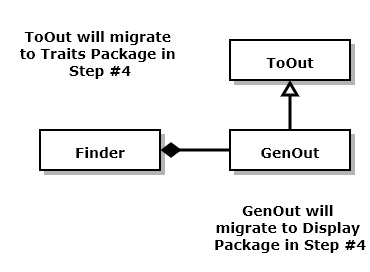
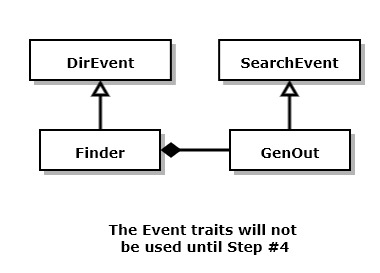
changed details in spec and demo code

diff --git a/Resources/BuildOn/Step1.html b/Resources/BuildOn/Step1.html
@@ -84,7 +84,7 @@
             width="300" class="photoSizerBlock left"
             style="background-color: #fefefa;"  
           >
-            <span style="font-family:'Comic Sans MS';">Figure 2. TextSearch Types</span>
+            <span style="font-family:'Comic Sans MS';">Figure 2. Step #1 Types</span>
           </photosizer-block>
         </div>
        <t-b>
@@ -144,11 +144,14 @@
           In this step we will create the TextSearch package.  It contains a <c-s>Finder</c-s> type that:
           <ol>
             <li>
-              Accepts a directory name which it interprets as the currently analyzed directory, and passes
-              on to an instance of a <c-s>GenOut</c-s> type, implemented by the Display package.
+              Accepts a search string in method Finder::set_txt.
             </li>
             <li>
-              Accepts a file name and search text in a find method.
+              Accepts a directory name in DirEvent::do_dir which it stores and passes on to an instance
+              of the <c-s>GenOut</c-s> type, which will move to the Display package in Step #4.
+            </li>
+            <li>
+              Accepts a file name in DirEvent::do_file.
             </li>
             <li>
               Attempts to open the file.
@@ -157,30 +160,31 @@
               If successful, searches the file for the specified text.
             </li>
             <li>
-              Sends a tuple of file name, boolean found value, and the search text to the display package&apos;s
+              Sends a tuple of file name, boolean found value, and the search text to the
               <c-s>GenOut</c-s> type.
               The boolean value is true if specified text was found in the file, otherwise false.
             </li>
           </ol>
         </t-b>
         <t-b>
-          TextSearch package defines a struct <c-s>Finder</c-s> that provides the methods:
+          TextSearch package defines struct <c-s>Finder</c-s> that provides the methods:
           <indent-block>
-            <c-s>fn set_dir(&mut self, dirnm: &str)</c-s><br />
-            <c-s>fn find(&mut self, flnm: &str, stxt: &str)</c-s>
+            <c-s>fn do_dir(&mut self, dir: &str)</c-s><br />
+            <c-s>fn do_file(&mut self, file: &str)</c-s><br />
+            <c-s>fn set_txt(&mut self, srctxt: &str)</c-s>
           </indent-block>
-          Method <c-s>find</c-s> sends its results directly to <c-s>GenOut</c-s>, below, rather than 
+          Method <c-s>do_file</c-s> sends its results directly to <c-s>GenOut</c-s>, below, rather than 
           returning them to DirNav.
         </t-b>
         <t-b>
-          It defines struct <c-s>GenOut</c-s> to provide methods:
+          It defines, in this Step, struct <c-s>GenOut</c-s> to provide methods:
           <indent-block>
             <c-s>fn set_dir(&mut self, dir: &str)</c-s><br />
             <c-s>/* rslt args, below, are: filename, found, and search_text */</c-s><br />
             <c-s>fn set_file(&mut self, rslt:(&str, bool, &str))</c-s>
           </indent-block>
-          <c-s>GenOut</c-s> will migrate to the Display package in
-          Step #4.
+          In this Step, <c-s>GenOut</c-s> is a test mock, supporting <c-s>Finder</c-s> testing.
+          A completed version will migrate to Display package in Step&nbsp;#4.
           <!--<c-s>Finder</c-s> is a generic type with parameter <c-s>D</c-s>, e.g., 
           <c-s>struct Finder&lt;D&gt; { ... }</c-s>.
           For this application, <c-s>Finder</c-s>&apos;s creator, <c-s>Executive</c-s>, will configure 
